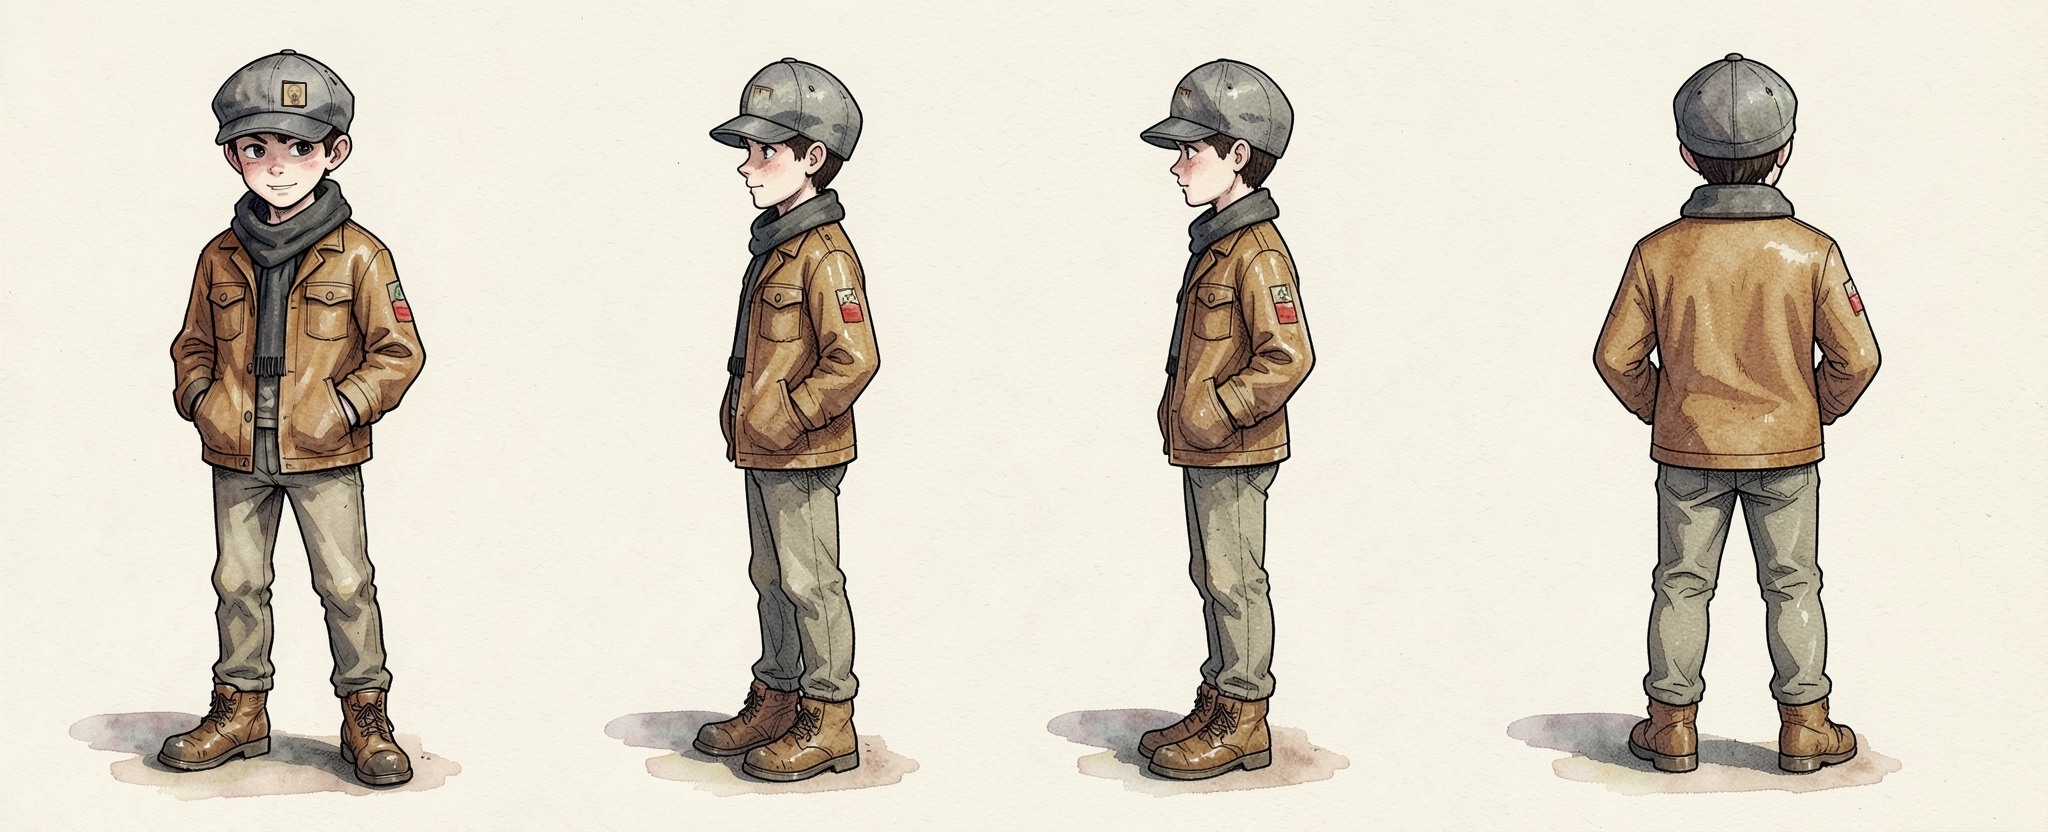
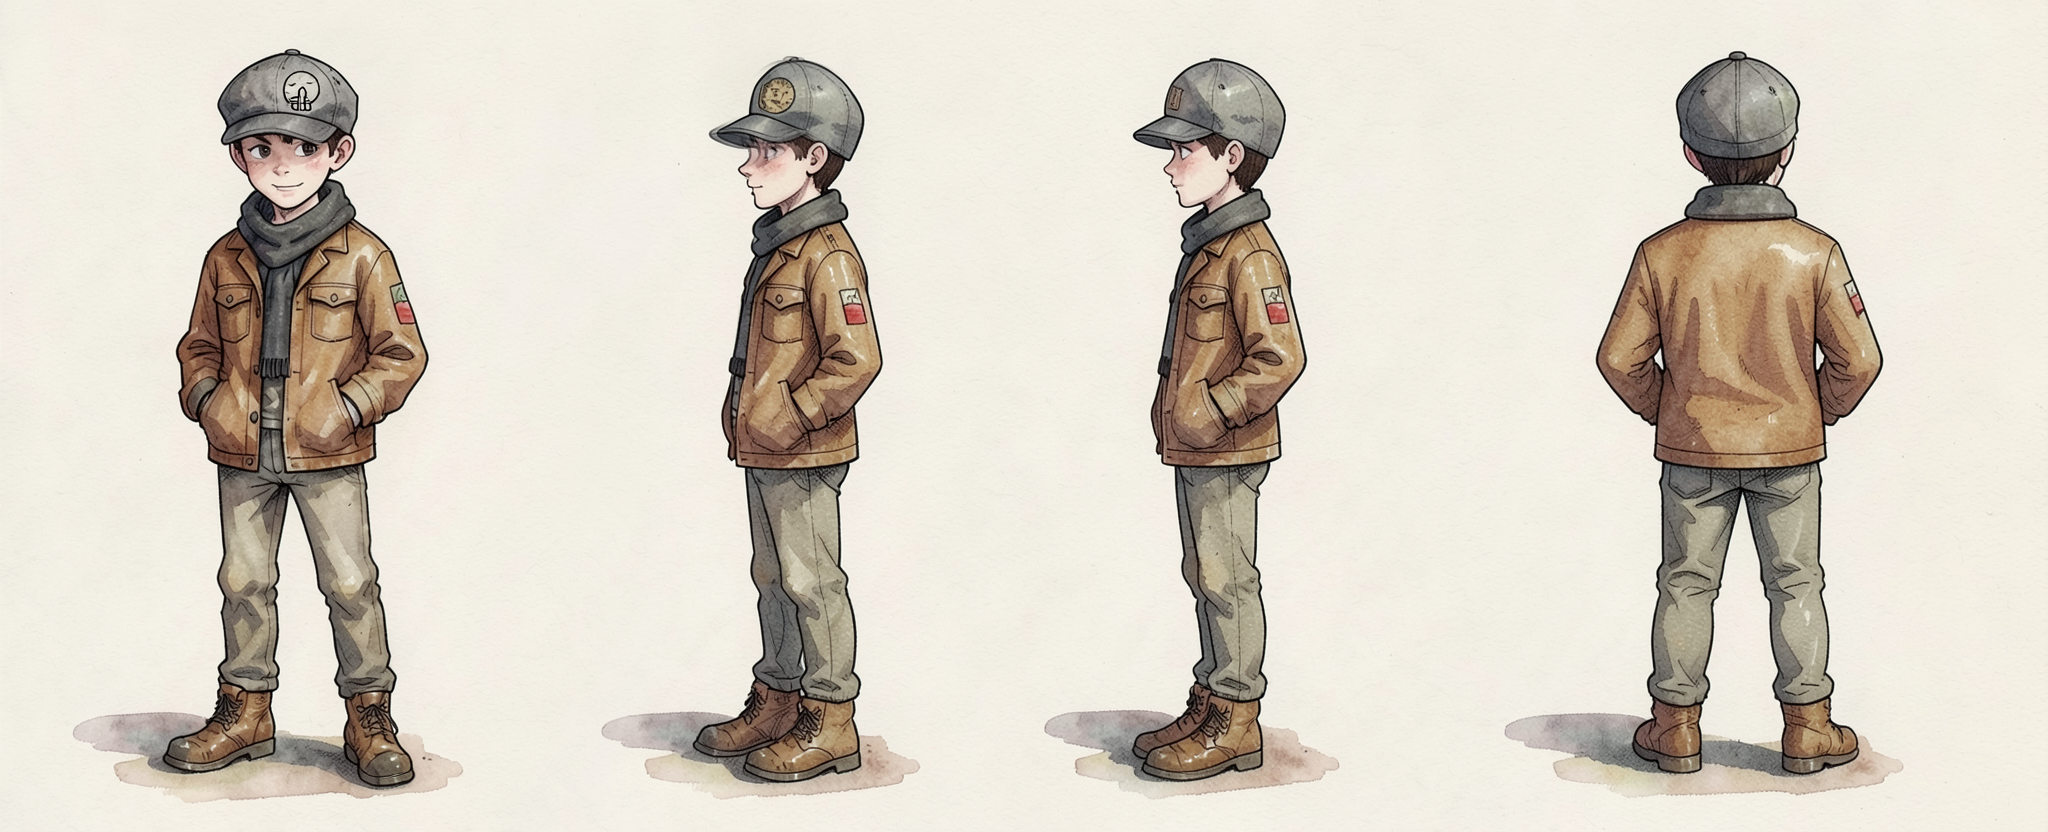
Fink überarbeitet: Aufnäher gemalt statt eingefügt; Wollmark-Szene neu (zwei Hände, sitzt auf dem Rand)

diff --git a/tools/bereich-mischen.py b/tools/bereich-mischen.py
@@ -1,0 +1,10 @@
+# Übernimmt aus einer Bildbearbeitung nur einen ovalen Bereich (weich überblendet) ins Original, der Rest bleibt pixelgleich.
+# Aufruf: python tools/bereich-mischen.py <original> <bearbeitung> <ziel> <cx> <cy> <rx> <ry>
+# Entstanden 19.10.2026: Aufnäher auf Finks Mütze vom Modell malen lassen, ohne dass sich Fink selbst verändert.
+import sys
+from PIL import Image, ImageDraw, ImageFilter
+orig, edit, out = sys.argv[1:4]; cx, cy, rx, ry = map(int, sys.argv[4:8])
+O = Image.open(orig).convert('RGB'); E = Image.open(edit).convert('RGB').resize(O.size)
+m = Image.new('L', O.size, 0); ImageDraw.Draw(m).ellipse((cx-rx, cy-ry, cx+rx, cy+ry), fill=255)
+m = m.filter(ImageFilter.GaussianBlur(min(rx, ry) // 4))
+Image.composite(E, O, m).save(out)

diff --git a/docs/art/tagebuch/README.md b/docs/art/tagebuch/README.md
@@ -22,3 +22,5 @@ Gewählt ist Seed 1, außer: `herzsplitter` 3 (einziger mit vier Farben), `quell
 **Bekannte Schwächen:** `brief` – Ringsiegel sauber, vier Ringe. `faehrfrau` – Ringe auf dem Ruder. `fremder` – Gesicht sichtbar (wie gewählt). `kettrich` – am 19.10.2026 mit `menschen/kettrich-brille.prompt.txt` nachbearbeitet (Seed 1): jetzt gestapelte Gläser wie im Einzelbild. `yrsa` – Rußflecken im Gesicht. `gildenzeichen-leise_hand` – **zweimal nachgebessert (19.10.2026):** Die N7-Fassung sah aus wie eine Unterlippe mit Mittelfinger (von Pasco bemerkt) und wurde ersetzt. Jetzt mit exakt gezeichneter Vorlage `requisiten/leise-hand-vorlage.png` (`tools/leise-hand-vorlage.py`: Gesicht von vorn, Zeigefinger über den Lippen, Daumen und Faust sichtbar). Runde 1 eindeutig, aber Foto-Look; Runde 2 enthielt wieder eine falsche Hand; Runde 3 (Aquarell-Bearbeitung) sah noch wie ein echter Stoffflicken aus (Pasco). **Runde 4, gewählt:** `gildenzeichen-leise_hand-stil.prompt.txt` mit zwei Referenzen – Vorlage für das Zeichen, `taschen/goldknopf.png` für den Zeichenstil –, Seed 4: einfache Bleistiftskizze wie die übrigen Tagebuchbilder. **Regel:** Dieses Zeichen nie nur aus Text erzeugen, immer mit der Vorlage. `jaro` neu (N8, Seed 12) mit hellem Papierrand. Einige Skizzen haben einen leicht gelblichen Papierrand statt nur Creme.
 
 **Fink (19.10.2026):** Aufnäher auf der Mütze in `menschen/fink.png` durch das Zeichen der Leisen Hand ersetzt (vorher Mittelfinger-artig).
+
+**Überarbeitet (19.10.2026, Pasco):** Der eingesetzte Aufnäher wirkte wie per Copy & Paste aufgeklebt. Neu: Das Modell malt den Aufnäher selbst im Bildstil (`figuren/fink-abzeichen.prompt.txt`, Referenzen: Originalbild + `requisiten/leise-hand-zeichen.png`); weil es dabei teils auch Fink veränderte, wurde mit `tools/bereich-mischen.py` nur die Mützenpartie ins Original übernommen. `tools/zeichen-einsetzen.py` ist für Aufnäher nicht mehr zu verwenden (nur für flache Zeichen wie Kreide oder Schnitzerei).

diff --git a/docs/art/art-style.md b/docs/art/art-style.md
@@ -17,7 +17,7 @@ Referenz: `stil-vorschlaege/1-gemaltes-abenteuerbuch.jpg`
 ## Verbotene Formen (festgelegt 14.10.2026, Pasco)
 - **Nichts, was an ein Hakenkreuz oder andere belastete Zeichen erinnert.** Keine Zeichen mit vier (oder drei) gleichen, abgeknickten oder gebogenen Armen, die sich um einen Mittelpunkt drehen – auch nicht als Wappen, Siegel, Ornament, Kritzelei oder Muster. Ebenso keine Runen, die als Sig- oder Odalrune gelesen werden können.
 - Gilt für Bilder, Prompts, Player-Gestaltung und Symbole in der Story. Im Zweifel ein anderes Motiv wählen.
-- **Keine Gesten, die als unhöflich gelesen werden können** (19.10.2026): Das Zeichen der Leisen Hand wurde vom Modell mehrfach wie ein ausgestreckter Mittelfinger gemalt. Handzeichen deshalb nur mit gezeichneter Vorlage (`docs/art/requisiten/leise-hand-zeichen.png`) und immer vergrößert prüfen.
+- **Keine Gesten, die als unhöflich gelesen werden können** (19.10.2026): Das Zeichen der Leisen Hand wurde vom Modell mehrfach wie ein ausgestreckter Mittelfinger gemalt. Handzeichen deshalb nur mit gezeichneter Vorlage (`docs/art/requisiten/leise-hand-zeichen.png`) und immer vergrößert prüfen. Zeichen nicht einfach ins Bild kopieren (wirkt aufgeklebt), sondern vom Modell mit der Vorlage als Referenz malen lassen.
 - Anlass: Ein Wappen-Entwurf für den Startbildschirm (vier gebogene Arme) erinnerte daran; er wurde sofort ersetzt.
 
 ## Hinweise für die Bilderzeugung

diff --git a/docs/art/szenen/perle-1/README.md b/docs/art/szenen/perle-1/README.md
@@ -255,3 +255,5 @@ Beide Übersichten angesehen. **Insgesamt sehr gelungen:** Stil einheitlich, Ich
 **R5 – übrige Bilder durchgesehen (14.10.2026):** alle Bilder in `figuren/`, `orte/`, `requisiten/` und `szenen/perle-1/` (einschließlich Tagebuchseiten) über die Übersichten und Ausschnitte geprüft. Weitere Spiralen oder spiralartige Zeichen gefunden: keine. Übersichten `uebersicht-1.png` und `-2.png` neu gebaut.
 
 **Zeichen der Leisen Hand (19.10.2026):** In `szene-markt.png` sah der Aufnäher auf Finks Mütze wie ein Mittelfinger aus; mit `tools/zeichen-einsetzen.py` durch die Vorlage `requisiten/leise-hand-zeichen.png` ersetzt.
+
+**Überarbeitet (19.10.2026, Pasco):** Der eingesetzte Aufnäher wirkte wie per Copy & Paste aufgeklebt. Neu: Das Modell malt den Aufnäher selbst im Bildstil (`figuren/fink-abzeichen.prompt.txt`, Referenzen: Originalbild + `requisiten/leise-hand-zeichen.png`); weil es dabei teils auch Fink veränderte, wurde mit `tools/bereich-mischen.py` nur die Mützenpartie ins Original übernommen. `tools/zeichen-einsetzen.py` ist für Aufnäher nicht mehr zu verwenden (nur für flache Zeichen wie Kreide oder Schnitzerei).

diff --git a/docs/art/figuren/README.md b/docs/art/figuren/README.md
@@ -153,3 +153,5 @@ Einzelbild: `<name>-einzel.prompt.txt`, 832×1216, 6 Seeds, nur aus Text. Refere
 
 ## Zeichen der Leisen Hand (19.10.2026)
 Auf Finks Mütze sah das Zeichen in `fink-einzel.png` und `fink-referenzblatt.png` wie ein ausgestreckter Mittelfinger aus. Ersetzt mit `tools/zeichen-einsetzen.py --zeichen docs/art/requisiten/leise-hand-zeichen.png --grund <Farbe>` (neuer Aufnäher mit Gesicht und Zeigefinger über den Lippen). Auf dem Referenzblatt in Seiten- und Dreiviertelansicht übermalt (dort nur von der Seite zu sehen). Die Prompts beschreiben das Zeichen jetzt genauer.
+
+**Überarbeitet (19.10.2026, Pasco):** Der eingesetzte Aufnäher wirkte wie per Copy & Paste aufgeklebt. Neu: Das Modell malt den Aufnäher selbst im Bildstil (`figuren/fink-abzeichen.prompt.txt`, Referenzen: Originalbild + `requisiten/leise-hand-zeichen.png`); weil es dabei teils auch Fink veränderte, wurde mit `tools/bereich-mischen.py` nur die Mützenpartie ins Original übernommen. `tools/zeichen-einsetzen.py` ist für Aufnäher nicht mehr zu verwenden (nur für flache Zeichen wie Kreide oder Schnitzerei).

diff --git a/docs/art/szenen/perle-3/README.md b/docs/art/szenen/perle-3/README.md
@@ -181,3 +181,5 @@ Alle mit `tools/erzeuge-szene.ps1`, FLUX.2 klein 4B, je 6 Seeds. Übersichten: `
 | `tagebuch-perle-3` | 6 | Buch auf Tisch; Ringzeichen in der Ecke nur angedeutet (zwei Ringe) |
 
 **Zeichen der Leisen Hand (19.10.2026):** In `szene-beitritt-hand.png` sah der Aufnäher auf Finks Mütze wie ein Mittelfinger aus; mit `tools/zeichen-einsetzen.py` durch die Vorlage `requisiten/leise-hand-zeichen.png` ersetzt. Finks echte Psst-Geste mit der Hand im Bild ist richtig.
+
+**Überarbeitet (19.10.2026, Pasco):** Der eingesetzte Aufnäher wirkte wie per Copy & Paste aufgeklebt. Neu: Das Modell malt den Aufnäher selbst im Bildstil (`figuren/fink-abzeichen.prompt.txt`, Referenzen: Originalbild + `requisiten/leise-hand-zeichen.png`); weil es dabei teils auch Fink veränderte, wurde mit `tools/bereich-mischen.py` nur die Mützenpartie ins Original übernommen. `tools/zeichen-einsetzen.py` ist für Aufnäher nicht mehr zu verwenden (nur für flache Zeichen wie Kreide oder Schnitzerei).

diff --git a/docs/art/szenen/perle-5/README.md b/docs/art/szenen/perle-5/README.md
@@ -132,3 +132,5 @@ Alle mit `tools/erzeuge-szene.ps1`, FLUX.2 klein 4B, je 6 Seeds. Übersicht: `ue
 | `tagebuch-perle-5` | 5 | Buch auf Tisch |
 
 **Zeichen der Leisen Hand (19.10.2026):** In `szene-brief-in-wollmark.png` sah der Aufnäher auf Finks Mütze wie ein Mittelfinger aus; mit `tools/zeichen-einsetzen.py` durch die Vorlage `requisiten/leise-hand-zeichen.png` ersetzt.
+
+**`szene-brief-in-wollmark` neu (19.10.2026, Pasco):** In der alten Fassung stand Fink im Brunnen und hatte drei Hände. Prompt nachgeschärft (sitzt auf dem Rand, genau zwei Hände), Seed 9: zwei Hände (Apfel und Brief), Aufnäher mit Psst-Zeichen direkt mitgemalt.
